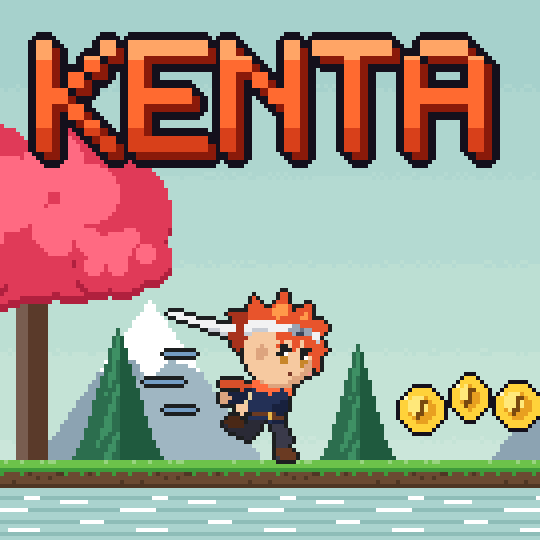
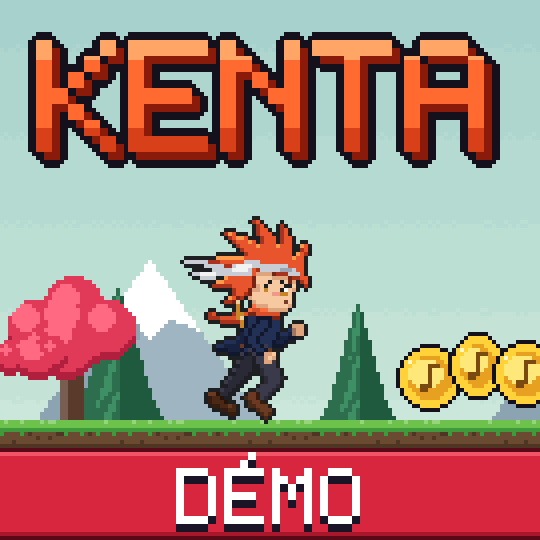
Met à jour la vignette et info.json de la borne, avec un bandeau « DÉMO »
- thumbnail.png : Kenta en marionnette (ADR-022) au lieu du sprite du PDF,
  bandeau rouge « DÉMO » en bas (police pixel du jeu, agrandie ×2), scène
  remontée de 10 px pour le laisser sous le sol ;
- info.json : plus de Sourdine (retirée, ADR-023), description du niveau
  qui change (ADR-025), « démo » dans la description et l'accroche ;
- docs : game/CLAUDE.md (comment retirer le bandeau), roadmap.

diff --git a/tools/gen-kenta-assets.py b/tools/gen-kenta-assets.py
@@ -13,7 +13,7 @@ import json
 import os
 import sys
 
-from PIL import Image
+from PIL import Image, ImageDraw
 
 sys.path.insert(0, os.path.dirname(os.path.abspath(__file__)))
 import kenta_art as art  # noqa: E402
@@ -88,8 +88,35 @@ def gen_font(out, sheet):
         sheet.append(line)
 
 
+def text_image(text, scale=1):
+    """Texte dans la police pixel du jeu (glyphes de kenta_ui, avance = largeur + 1 px), agrandi d'un facteur entier."""
+    glyphs = [ui.glyph_image(ch).im for ch in text]
+    w = sum(g.width + 1 for g in glyphs) - 1
+    im = Image.new("RGBA", (w, max(g.height for g in glyphs)), (0, 0, 0, 0))
+    x = 0
+    for g in glyphs:
+        im.alpha_composite(g, (x, 0))
+        x += g.width + 1
+    return im.resize((im.width * scale, im.height * scale), Image.NEAREST)
+
+
+def demo_banner(img, y0, h, text="DÉMO"):
+    """Bandeau rouge sur toute la largeur (bord sombre, reflet clair), texte blanc à ombre centré, agrandi ×2."""
+    w = img.width
+    band = Image.new("RGBA", (w, h), col("#D7263D"))
+    d = ImageDraw.Draw(band)
+    d.rectangle([0, 0, w - 1, 0], fill=col("#5A0A16"))
+    d.rectangle([0, 1, w - 1, 1], fill=col("#F25467"))
+    d.rectangle([0, h - 2, w - 1, h - 2], fill=col("#A8172C"))
+    d.rectangle([0, h - 1, w - 1, h - 1], fill=col("#5A0A16"))
+    t = text_image(text, scale=2)
+    band.alpha_composite(t, ((w - t.width) // 2, (h - t.height) // 2 + 1))
+    img.alpha_composite(band, (0, y0))
+
+
 def gen_thumbnail(out, sheet):
-    """Jaquette carrée de la borne (game/BuildExtras/thumbnail.png) : la Sylve, Kenta en pleine course et le logo."""
+    """Jaquette carrée de la borne (game/BuildExtras/thumbnail.png) : la Sylve, Kenta (marionnette, ADR-022) en pleine
+    course, le logo, et un bandeau rouge « DÉMO » en bas."""
     b = BIOMES[0]
     scene = art.draw_sky(b, scale=1, statue=True)
     for layer, off in ((art.draw_far(b, scale=1, foot=False), 120), (art.draw_mid(b, scale=1, foot=False), 150), (art.draw_near(b, scale=1, foot=False), 230)):
@@ -97,13 +124,19 @@ def gen_thumbnail(out, sheet):
     ground = art.draw_ground(b)
     for x in range(0, 240, 32):
         scene.im.alpha_composite(ground.im, (x, 115))
-    hero = Image.open(os.path.join(ROOT, "game", "Assets", "_Project", "Art", "Kenta", "Pdf", "hero_kenta_run.png")).convert("RGBA")
-    scene.im.alpha_composite(hero, (116 - hero.width // 2, 116 - hero.height))
+    hero = Image.open(os.path.join(ROOT, "game", "Assets", "_Project", "Art", "Kenta", "Gen", "heroes", "hero_kenta_run_1.png")).convert("RGBA")
+    scene.im.alpha_composite(hero, (116 - hero.width // 2, 116 - hero.height))     # toile 96×72, pieds en bas au milieu
     for i, (x, y) in enumerate(((150, 95), (162, 92), (174, 94))):
         scene.im.alpha_composite(ui.draw_coin(i % 2).im, (x, y))
-    sq = scene.im.crop((52, 0, 187, 135))
+    # la scène remonte de SHIFT px pour laisser la place au bandeau sous le sol (l'eau est prolongée vers le bas)
+    SHIFT, BAND = 10, 23
+    tall = Image.new("RGBA", (scene.im.width, 135 + SHIFT))
+    tall.alpha_composite(scene.im.crop((0, 0, scene.im.width, 135)), (0, 0))
+    tall.alpha_composite(scene.im.crop((0, 135 - SHIFT, scene.im.width, 135)), (0, 135))
+    sq = tall.crop((52, SHIFT, 187, 135 + SHIFT))
     logo = ui.draw_logo().im
     sq.alpha_composite(logo, ((135 - logo.width) // 2, 8))
+    demo_banner(sq, 135 - BAND, BAND)
     big = sq.resize((135 * 4, 135 * 4), Image.NEAREST)
     path = os.path.join(ROOT, "game", "BuildExtras", "thumbnail.png")
     big.convert("RGB").save(path, optimize=True)

diff --git a/docs/roadmap.md b/docs/roadmap.md
@@ -62,7 +62,9 @@ Règles :
   - [ ] **P2** Obstacles à refaire dans Gemini : `wall_orage` (socle plat), `block_orage` et `post_orage` (fond rectangulaire retiré, contour haché), `block_cite` (copie de l'ancien bloc), `post_echine` (corde en rayures jaunes et noires)
   - [ ] Faire valider le nouveau gabarit par l'équipe, puis **vérifier sur la borne** : lisibilité à 2 m, rendu des héros à ×3 (vue large)
   - [ ] Animations restantes : attente animée (menus), pose de victoire, mort animée ; liane et course sur mur à brancher avec leurs mécaniques
-  - [ ] Vignette (`thumbnail.png`) et pages du site : encore avec le Kenta du PDF
+  - [x] Vignette (`thumbnail.png`) : Kenta en marionnette, bandeau rouge « DÉMO » ; `info.json` à jour (plus de Sourdine, mentions « démo ») (2026-11-25)
+  - [ ] Pages du site : encore avec le Kenta du PDF
+  - [ ] Version finale : retirer le bandeau « DÉMO » de la vignette (`demo_banner` dans `gen_thumbnail`) et les mentions « démo » de `info.json`
   - décors des biomes plus riches (aujourd'hui générés : arbres, rochers, cristaux, volcan, ruines, nuages) : gardiens animés, éléments qui jouent sur le temps (champignons-cymbales, bulles, cristaux en arpège, geysers, aurore, éclairs…)
   - scènes de drop entre biomes (tronc qui frappe, chute vers le marais, éruption, avalanche…) : aujourd'hui flash + secousse + changement de décor
   - ennemis : variante « cassé » (pièces qui s'échappent) pour les 8, comme le djembé

diff --git a/game/CLAUDE.md b/game/CLAUDE.md
@@ -100,7 +100,7 @@ Le jeu est en **pixel art agrandi d'un facteur entier** : vue du monde de 320 à
 2. `tools/package-build.sh` : copie vers `dist/Kenta/`, ajoute `BuildExtras/{info.json,thumbnail.png,attract.mp4?}` et installe le tout dans la borne locale.
 3. `cd tools/anatidae-arcade && node server.js` → `http://localhost:3000`. Le jeu apparaît dans le menu (Entrée/B1 pour lancer). Accès direct : `http://localhost:3000/Kenta/`.
 4. Vérifier : **Échap maintenu 1,5 s → retour menu** (testé OK le 2026-09-25), AFK 60 s → menu, `GET /api/?game=Kenta` en 200, saisie du highscore, dead zone, 60 fps.
-`game/BuildExtras/thumbnail.png` est générée : `python3 tools/gen-kenta-assets.py --only thumbnail` (la Sylve, Kenta et le logo).
+`game/BuildExtras/thumbnail.png` est générée : `python3 tools/gen-kenta-assets.py --only thumbnail` (la Sylve, Kenta en marionnette, le logo et un bandeau rouge « DÉMO » : retirer l'appel à `demo_banner` dans `gen_thumbnail` pour la version finale). `info.json` le dit aussi (« Démo. » en tête de la description, « (démo) » dans la phrase d'accroche).
 
 ## MCP Unity
 Package `com.coplaydev.unity-mcp` **figé en `#v10.2.0`** dans `Packages/manifest.json`. On ne pointe jamais sur `#main` : les 3 postes doivent avoir la même version. Pour monter de version, mettre à jour le manifest et la version du serveur MCP dans la même PR.
